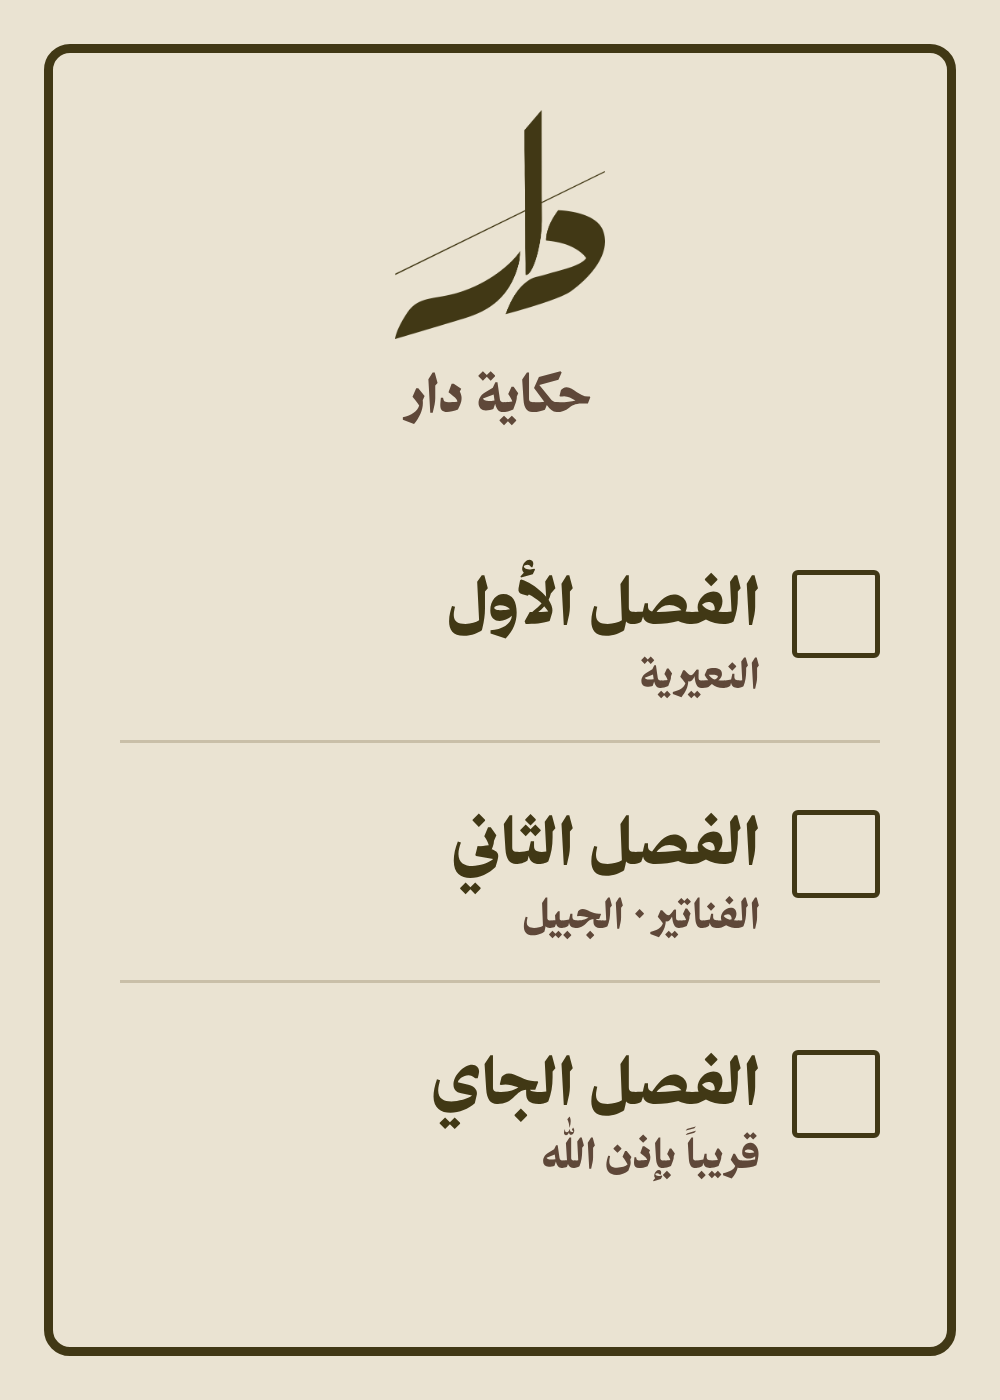
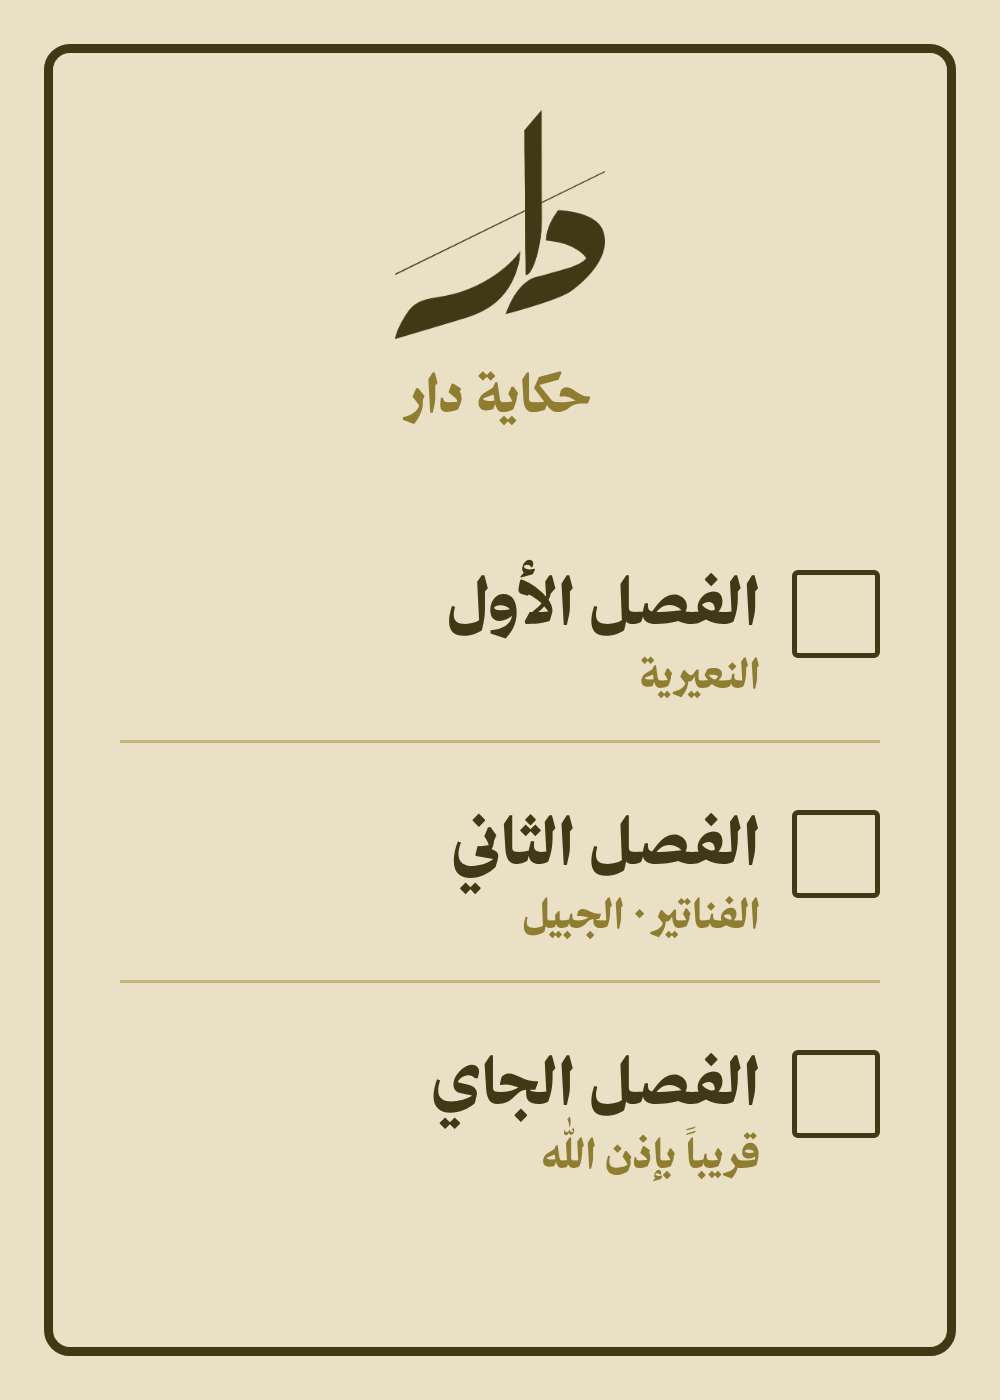
Use Dar primary palette and blur-rise word motion
Primary olive/sand palette, words enter from below with blur and lift
out with blur, geometric kashida on more elongated words and the outro.

Claude-Session: https://claude.ai/code/session_01ANBUX6YwGZmAC55EC58sSV

diff --git a/dar-motion/src/components/Captions.tsx b/dar-motion/src/components/Captions.tsx
@@ -1,10 +1,18 @@
 import React from 'react';
-import { spring, useCurrentFrame, useVideoConfig } from 'remotion';
+import { Easing, interpolate, spring, useCurrentFrame, useVideoConfig } from 'remotion';
 import { COLORS, FONTS } from '../styles/tokens';
 import { CUES, F } from '../data/defaultTimestamps';
 import { DynamicKashida } from './DynamicKashida';
 
-// arabic-kinetic-kashida: word-by-word white captions, burgundy pills, geometric kashida on chosen words.
+// arabic-kinetic-kashida: each word rises from slightly below with a soft blur (enter),
+// then lifts up and blurs out (exit). Elongated words stretch with geometric kashida.
+const ENTER = 12; // frames
+const EXIT = 9; // frames, staggered 1f per word
+const RISE = 46; // px below on enter
+const LIFT = 34; // px above on exit
+const BLUR_IN = 14;
+const BLUR_OUT = 10;
+
 export const Captions: React.FC<{ hideBetween?: [number, number][] }> = ({ hideBetween = [] }) => {
   const frame = useCurrentFrame();
   const { fps } = useVideoConfig();
@@ -16,14 +24,15 @@ export const Captions: React.FC<{ hideBetween?: [number, number][] }> = ({ hideB
   const words = cue.lines.flatMap((ln, li) => ln.split(' ').map((w) => ({ w, li })));
   const total = words.reduce((n, x) => n + x.w.length + 2, 0);
   let acc = 0;
-  const timed = words.map((x) => {
+  const timed = words.map((x, idx) => {
     const at = cue.speech[0] + ((cue.speech[1] - cue.speech[0]) * acc) / total;
     acc += x.w.length + 2;
-    return { ...x, at };
+    return { ...x, at, idx };
   });
 
   const lineH = cue.pills ? 118 : 128;
   const top = (cue.pills ? 820 : 880) - (cue.lines.length * lineH) / 2;
+  const endF = F(cue.to);
 
   return (
     <div dir="rtl" lang="ar" style={{ position: 'absolute', right: 96, top, display: 'flex', flexDirection: 'column',
@@ -32,18 +41,27 @@ export const Captions: React.FC<{ hideBetween?: [number, number][] }> = ({ hideB
       textShadow: cue.pills ? 'none' : '0 4px 24px rgba(0, 0, 0, 0.72), 0 1px 4px rgba(0, 0, 0, 0.9)' }}>
       {cue.lines.map((_, li) => (
         <div key={li} style={{ display: 'flex', gap: 22, whiteSpace: 'nowrap' }}>
-          {timed.filter((x) => x.li === li).map((x, i) => {
-            const s = spring({ fps, frame: frame - F(x.at), config: { damping: 22, stiffness: 300, mass: 0.8 } });
-            const shown = t >= x.at;
-            const k = cue.kashida && cue.kashida.word === x.w ? cue.kashida : null;
+          {timed.filter((x) => x.li === li).map((x) => {
+            const f0 = F(x.at);
+            if (frame < f0) return <span key={x.idx} style={{ visibility: 'hidden' }}>{x.w}</span>;
+            // enter: spring position, expo-out blur/opacity
+            const s = spring({ fps, frame: frame - f0, config: { damping: 20, stiffness: 170, mass: 0.9 } });
+            const eIn = interpolate(frame, [f0, f0 + ENTER], [0, 1], { extrapolateRight: 'clamp', easing: Easing.bezier(0.16, 1, 0.3, 1) });
+            // exit: staggered lift + blur, expo-in
+            const x0 = endF - EXIT - (timed.length - 1 - x.idx);
+            const eOut = interpolate(frame, [x0, x0 + EXIT], [0, 1], { extrapolateLeft: 'clamp', extrapolateRight: 'clamp', easing: Easing.bezier(0.7, 0, 0.84, 0) });
+            const y = (1 - s) * RISE - eOut * LIFT;
+            const blur = (1 - eIn) * BLUR_IN + eOut * BLUR_OUT;
+            const op = eIn * (1 - eOut);
+            const k = cue.kashida?.find((kk) => kk.word === x.w);
             const body = k ? (
-              <DynamicKashida rightPart={k.right} leftPart={k.left} startFrame={F(x.at) + 2}
-                endFrame={F(cue.speech[1]) - 1} fromStretchPx={k.stretch[0]} toStretchPx={k.stretch[1]}
-                fontSize={104} strokeThickness={12} baselineOffsetPx={30} />
+              <DynamicKashida rightPart={k.right} leftPart={k.left} startFrame={f0 + 2}
+                endFrame={Math.max(f0 + 10, F(cue.speech[1]) - 1)} fromStretchPx={k.stretch[0]} toStretchPx={k.stretch[1]}
+                fontSize={cue.pills ? 86 : 104} strokeThickness={11} baselineOffsetPx={29} />
             ) : x.w;
             return (
-              <span key={i} style={{ display: 'inline-block', visibility: shown ? 'visible' : 'hidden',
-                transform: `scale(${0.86 + 0.14 * s})`, transformOrigin: '100% 60%',
+              <span key={x.idx} style={{ display: 'inline-block', opacity: op, filter: blur > 0.2 ? `blur(${blur.toFixed(2)}px)` : undefined,
+                transform: `translateY(${y.toFixed(2)}px)`,
                 ...(cue.pills ? { background: COLORS.terracotta, padding: '0px 22px 10px', borderRadius: 4 } : {}) }}>
                 {body}
               </span>

diff --git a/dar-motion/src/DarFilm.tsx b/dar-motion/src/DarFilm.tsx
@@ -10,6 +10,7 @@ import { SocialCommentCard } from './components/SocialCommentCard';
 import { InkCheckmark } from './components/InkCheckmark';
 import { PageCurl3D } from './components/PageCurl3D';
 import { Captions } from './components/Captions';
+import { DynamicKashida } from './components/DynamicKashida';
 import { Cut, Shot } from './components/Footage';
 import { BrandMap } from './components/BrandMap';
 
@@ -78,10 +79,10 @@ const Checklist: React.FC = () => {
   return (
     <AbsoluteFill dir="rtl" style={{ background: COLORS.cream, fontFamily: FONTS.kinetic, fontWeight: 900, color: COLORS.ink }}>
       {items.map(([h, p], i) => (
-        <div key={i} style={{ position: 'absolute', right: 90, left: 90, top: 330 + i * 430, height: 400, borderBottom: i < 2 ? '3px solid #cbbfa6' : 'none' }}>
+        <div key={i} style={{ position: 'absolute', right: 90, left: 90, top: 330 + i * 430, height: 400, borderBottom: i < 2 ? '3px solid rgba(65,56,21,.35)' : 'none' }}>
           <div style={{ position: 'absolute', right: 0, top: 60 }}>
             {i < 2 ? <InkCheckmark startFrame={F(0.36 + i * 0.9)} duration={7} size={170} />
-              : <svg width={170} height={170} viewBox="0 0 100 100"><rect x={14} y={24} width={62} height={62} fill="none" stroke="#8D7F6B" strokeWidth={3} />
+              : <svg width={170} height={170} viewBox="0 0 100 100"><rect x={14} y={24} width={62} height={62} fill="none" stroke="#413815" strokeWidth={3} />
                   <text x={45} y={78} textAnchor="middle" fontSize={60} fill={COLORS.burgundy} fontFamily={FONTS.kinetic}
                     style={{ transform: `scale(${q})`, transformOrigin: '45px 55px' }}>؟</text></svg>}
           </div>
@@ -105,14 +106,20 @@ const Outro: React.FC = () => {
       <AbsoluteFill style={{ transform: `translateY(${ty}px) scale(${cam})`, filter: 'saturate(0.72) contrast(0.9) brightness(1.08) sepia(0.12) blur(0.6px)' }}>
         <Shot src="aerial" rate={0.6} push={0} />
       </AbsoluteFill>
-      <AbsoluteFill style={{ background: `linear-gradient(${COLORS.cream} 0%, ${COLORS.cream} 28%, rgba(234,227,210,0) 58%)` }} />
-      <AbsoluteFill style={{ background: 'radial-gradient(120% 80% at 50% 100%, rgba(234,227,210,0) 55%, rgba(234,227,210,.85) 100%)' }} />
+      <AbsoluteFill style={{ background: `linear-gradient(${COLORS.cream} 0%, ${COLORS.cream} 28%, rgba(200,182,124,0) 58%)` }} />
+      <AbsoluteFill style={{ background: 'radial-gradient(120% 80% at 50% 100%, rgba(200,182,124,0) 55%, rgba(200,182,124,.85) 100%)' }} />
       <div dir="rtl" style={{ position: 'absolute', top: 300, width: '100%', textAlign: 'center', fontFamily: FONTS.editorial,
         fontWeight: 900, color: COLORS.brown, fontSize: 112, lineHeight: '150px' }}>
         {[0, 1].map((ln) => (
           <div key={ln}>{words.filter((w) => w.line === ln).map((w, i) => {
-            const s = spring({ fps, frame: frame - (F(w.t) - t0), config: { damping: 22, stiffness: 300, mass: 0.8 } });
-            return <span key={i} style={{ display: 'inline-block', margin: '0 14px', opacity: frame >= F(w.t) - t0 ? 1 : 0, transform: `scale(${0.86 + 0.14 * s})` }}>{w.w}</span>;
+            const f0 = F(w.t) - t0;
+            const s = spring({ fps, frame: frame - f0, config: { damping: 20, stiffness: 170, mass: 0.9 } });
+            const e = interpolate(frame, [f0, f0 + 12], [0, 1], { ...clamp, easing: Easing.bezier(0.16, 1, 0.3, 1) });
+            const body = w.w === 'أوسع'
+              ? <DynamicKashida rightPart="أوسـ" leftPart="ـع" startFrame={f0 + 2} endFrame={f0 + 22} toStretchPx={150} fontSize={112} strokeThickness={12} baselineOffsetPx={31} color={COLORS.brown} />
+              : w.w;
+            return <span key={i} style={{ display: 'inline-block', margin: '0 14px', opacity: frame >= f0 ? e : 0,
+              filter: e < 0.98 ? `blur(${((1 - e) * 14).toFixed(2)}px)` : undefined, transform: `translateY(${((1 - s) * 46).toFixed(2)}px)` }}>{body}</span>;
           })}</div>
         ))}
       </div>

diff --git a/dar-motion/src/data/defaultTimestamps.ts b/dar-motion/src/data/defaultTimestamps.ts
@@ -7,27 +7,31 @@ export type Cue = {
   speech: [number, number]; // spoken window used to time each word (s)
   lines: string[]; // one or two words per line, stacked like the reference
   pills?: boolean; // burgundy pill stacking
-  kashida?: { word: string; right: string; left: string; stretch: [number, number] };
+  kashida?: { word: string; right: string; left: string; stretch: [number, number] }[];
 };
 
 export const CUES: Cue[] = [
   { from: 0.0, to: 1.64, speech: [0.02, 0.9], lines: ['ياهلا', 'وسهلا!'] },
   { from: 1.64, to: 2.93, speech: [1.64, 2.4], lines: ['كثير', 'يسألونا…'] },
   { from: 2.93, to: 4.33, speech: [2.93, 3.85], lines: ['ليه', 'سميناه', 'دار؟'],
-    kashida: { word: 'سميناه', right: 'سميـ', left: 'ـناه', stretch: [110, 10] } },
+    kashida: [{ word: 'سميناه', right: 'سميـ', left: 'ـناه', stretch: [110, 10] }] },
   { from: 4.33, to: 7.58, speech: [4.33, 7.2], lines: ['لأننا', 'من البداية', 'ما بغيناه', 'مقهى وبس…'] },
   { from: 7.58, to: 10.46, speech: [7.58, 9.9], lines: ['بغيناه', 'مكان', 'تحس فيه', 'بين أهلك'],
-    kashida: { word: 'أهلك', right: 'أهـ', left: 'ـلك', stretch: [0, 150] } },
+    kashida: [{ word: 'أهلك', right: 'أهـ', left: 'ـلك', stretch: [0, 150] }] },
   { from: 10.46, to: 12.25, speech: [10.46, 11.8], lines: ['ومن أول', 'يوم في', 'النعيرية'] },
   { from: 12.25, to: 14.53, speech: [12.25, 14.0], lines: ['كانت', 'كلمتنا:', 'مرحبا…'],
-    kashida: { word: 'مرحبا…', right: 'مرحـ', left: 'ـبا…', stretch: [0, 200] } },
-  { from: 14.53, to: 16.61, speech: [14.53, 16.1], lines: ['والقلب', 'أوسع', 'من الدار'] },
+    kashida: [{ word: 'مرحبا…', right: 'مرحـ', left: 'ـبا…', stretch: [0, 200] }] },
+  { from: 14.53, to: 16.61, speech: [14.53, 16.1], lines: ['والقلب', 'أوسع', 'من الدار'],
+    kashida: [{ word: 'أوسع', right: 'أوسـ', left: 'ـع', stretch: [0, 170] }] },
   { from: 16.61, to: 19.45, speech: [16.61, 19.0], lines: ['وما كانت', 'عبارة وبس…', 'كانت وعد'] },
-  { from: 19.45, to: 22.67, speech: [19.45, 22.1], lines: ['إن كل', 'زيارة', 'مليانة', 'ضيافة وراحة'] },
+  { from: 19.45, to: 22.67, speech: [19.45, 22.1], lines: ['إن كل', 'زيارة', 'مليانة', 'ضيافة وراحة'],
+    kashida: [{ word: 'وراحة', right: 'وراحـ', left: 'ـة', stretch: [0, 120] }] },
   { from: 22.67, to: 25.94, speech: [22.67, 25.5], lines: ['واليوم،', 'بفضل الله', 'ثم ثقتكم', 'وحبكم'] },
-  { from: 25.94, to: 27.4, speech: [25.94, 27.2], lines: ['نكتب', 'فصل جديد'] },
+  { from: 25.94, to: 27.4, speech: [25.94, 27.2], lines: ['نكتب', 'فصل جديد'],
+    kashida: [{ word: 'جديد', right: 'جـ', left: 'ـديد', stretch: [0, 120] }] },
   { from: 30.48, to: 32.06, speech: [30.48, 31.6], lines: ['وهذي', 'البداية', 'بس…'], pills: true },
-  { from: 32.06, to: 33.49, speech: [32.06, 33.2], lines: ['وخلال', 'السنة', 'الجاية'] },
+  { from: 32.06, to: 33.49, speech: [32.06, 33.2], lines: ['وخلال', 'السنة', 'الجاية'],
+    kashida: [{ word: 'الجاية', right: 'الجـ', left: 'ـاية', stretch: [0, 150] }] },
   { from: 37.26, to: 41.16, speech: [37.26, 40.6], lines: ['أهل النعيرية،', 'أهل الجبيل،', 'وكل من', 'مرّ علينا…'] },
 ];
 

diff --git a/dar-motion/src/components/BrandMap.tsx b/dar-motion/src/components/BrandMap.tsx
@@ -38,17 +38,17 @@ export const BrandMap: React.FC = () => {
   const pull = interpolate(frame, [0, 28], [1.45, 1], { extrapolateRight: 'clamp', easing: Easing.bezier(0.16, 1, 0.3, 1) });
   const draw = (i: number) => interpolate(frame, [2 + i * 1.2, 30 + i * 1.2], [1, 0], { extrapolateLeft: 'clamp', extrapolateRight: 'clamp', easing: Easing.bezier(0.16, 1, 0.3, 1) });
   return (
-    <AbsoluteFill style={{ background: COLORS.navy }}>
+    <AbsoluteFill style={{ background: COLORS.olive }}>
       <svg width={1080} height={1920} viewBox="0 0 1080 1920" style={{ transform: `scale(${kb * pull})`, transformOrigin: '45% 45%' }}>
         <defs>
-          <radialGradient id="vig" cx="40%" cy="50%" r="75%"><stop offset="0.6" stopColor={COLORS.burgundy} /><stop offset="1" stopColor="#260b05" /></radialGradient>
+          <radialGradient id="vig" cx="40%" cy="50%" r="75%"><stop offset="0.6" stopColor={COLORS.burgundy} /><stop offset="1" stopColor="#2a240c" /></radialGradient>
         </defs>
         <path d={COAST} fill="url(#vig)" />
         <g fill="none" stroke={COLORS.cream} strokeLinecap="round">
           {MAIN.map((d, i) => <path key={i} d={d} strokeWidth={9} opacity={0.75} pathLength={1} strokeDasharray={1} strokeDashoffset={draw(i)} />)}
           {SEC.map((d, i) => <path key={i} d={d} strokeWidth={4} opacity={0.45} pathLength={1} strokeDasharray={1} strokeDashoffset={draw(i + 4)} />)}
         </g>
-        <text x={930} y={430} textAnchor="middle" fontFamily={FONTS.kinetic} fontSize={40} fill={COLORS.sand}>الخليج العربي</text>
+        <text x={930} y={430} textAnchor="middle" fontFamily={FONTS.kinetic} fontSize={40} fill={COLORS.sand} opacity={0.9}>الخليج العربي</text>
         <Pin x={340} y={700} at={36} en="Al Nairyah" ar="النعيرية" dy={-215} />
         <Pin x={790} y={1000} at={60} en="Al Fanateer" ar="الفناتير" dy={110} />
       </svg>

diff --git a/dar-motion/scripts/make_card.js b/dar-motion/scripts/make_card.js
@@ -5,13 +5,13 @@ const { chromium } = require('playwright'); const path = require('path');
   const root = 'file://' + path.resolve(__dirname, '..', 'public/assets');
   const html = `<html dir="rtl"><style>
   @font-face{font-family:T;src:url(${root}/fonts/thmanyah-serif-text-black.otf)}
-  body{margin:0;width:1000px;height:1400px;background:#EAE3D2;font-family:T;color:#413815}
+  body{margin:0;width:1000px;height:1400px;background:#E9E0C6;font-family:T;color:#413815}
   .b{position:absolute;inset:44px;border:9px solid #413815;border-radius:26px}
   img{position:absolute;left:50%;top:110px;width:210px;transform:translateX(-50%)}
-  .s{position:absolute;top:360px;width:100%;text-align:center;font-size:52px;color:#5F4839}
-  .it{position:absolute;right:120px;left:120px;height:220px;border-bottom:3px solid #c9bfa8}
+  .s{position:absolute;top:360px;width:100%;text-align:center;font-size:52px;color:#8F7E2F}
+  .it{position:absolute;right:120px;left:120px;height:220px;border-bottom:3px solid #C8B67C}
   .it h3{margin:0;position:absolute;right:120px;top:40px;font-size:64px}
-  .it p{margin:0;position:absolute;right:120px;top:128px;font-size:40px;color:#5F4839}
+  .it p{margin:0;position:absolute;right:120px;top:128px;font-size:40px;color:#8F7E2F}
   .bx{position:absolute;right:0;top:50px;width:78px;height:78px;border:5px solid #413815;border-radius:6px}
   </style><body><div class="b"></div><img src="${root}/images/dar_mark_olive.png"><div class="s">حكاية دار</div>
   <div class="it" style="top:520px"><div class="bx"></div><h3>الفصل الأول</h3><p>النعيرية</p></div>

diff --git a/dar-motion/src/styles/tokens.ts b/dar-motion/src/styles/tokens.ts
@@ -7,15 +7,16 @@ export const VIDEO_CONFIG = {
 
 export const COLORS = {
   // Dar Cafe official palette (Color Scheme.pdf); keys kept so the skill components stay unchanged
-  cream: '#EAE3D2', // frame / paper (logo sits on light ground)
-  burgundy: '#41160B', // Dar dark brown – collage canvas, map land
-  navy: '#413815', // Dar dark olive – logo, curl back face, map sea
-  brown: '#5F4839', // Dar brown – serif slogan, sub-labels
+  // primary palette (top row of Color Scheme): #413815 · #8F7E2F · #C8B67C
+  cream: '#C8B67C', // Dar sand – frame, checklist, outro & logo ground
+  burgundy: '#413815', // Dar dark olive – collage canvas, map land
+  navy: '#41160B', // Dar dark brown – curl back face
+  brown: '#41160B', // Dar dark brown – serif slogan, sub-labels
   terracotta: '#B75F3D', // Dar terracotta – pills, accents
   olive: '#8F7E2F',
   sand: '#C8B67C',
   white: '#FFFFFF',
-  ink: '#1A1A1A',
+  ink: '#41160B',
 } as const;
 
 export const FONTS = {

diff --git a/dar-motion/src/components/InkCheckmark.tsx b/dar-motion/src/components/InkCheckmark.tsx
@@ -28,7 +28,7 @@ export const InkCheckmark: React.FC<InkCheckmarkProps> = ({
 
   return (
     <svg width={size} height={size} viewBox="0 0 100 100" fill="none">
-      <rect x={14} y={24} width={62} height={62} stroke="#8D7F6B" strokeWidth={3} />
+      <rect x={14} y={24} width={62} height={62} stroke="#413815" strokeWidth={3} />
       <path
         d="M 24 54 L 44 74 C 54 52 68 32 88 12"
         stroke={COLORS.ink}
